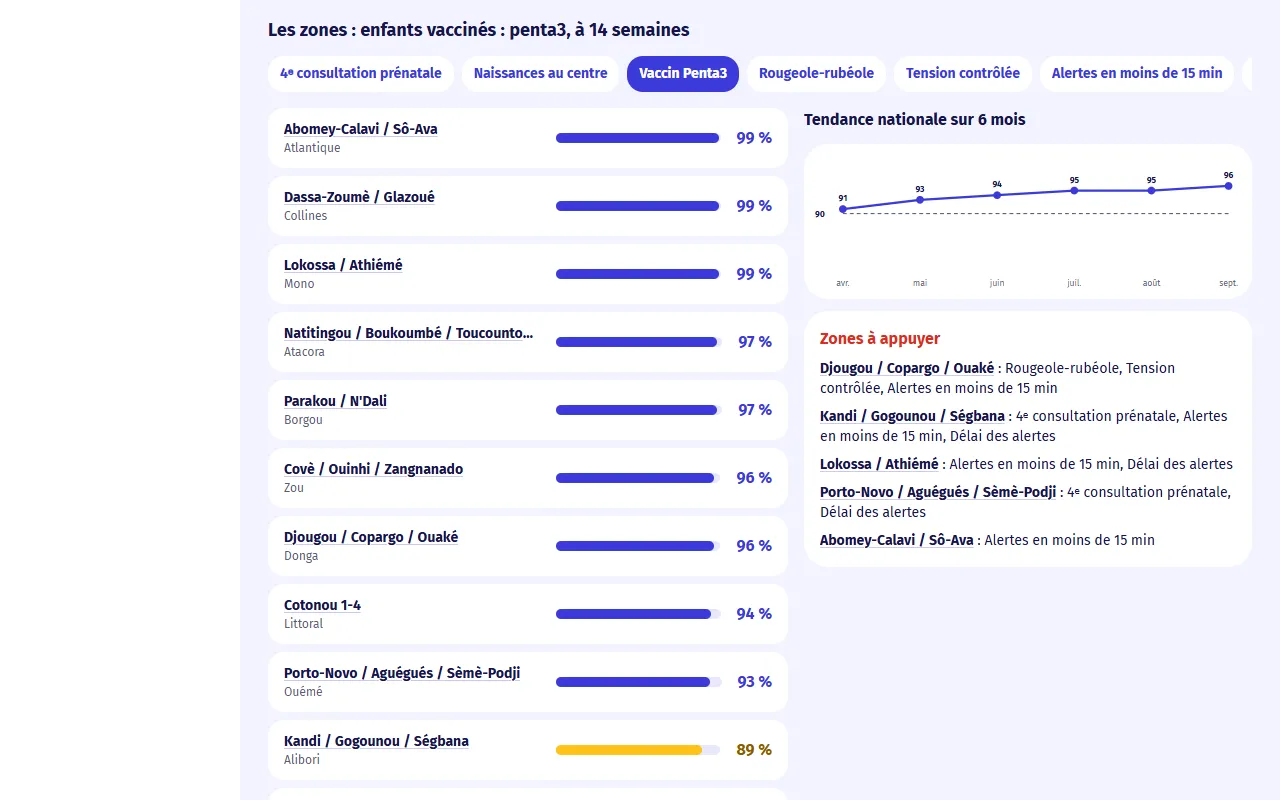
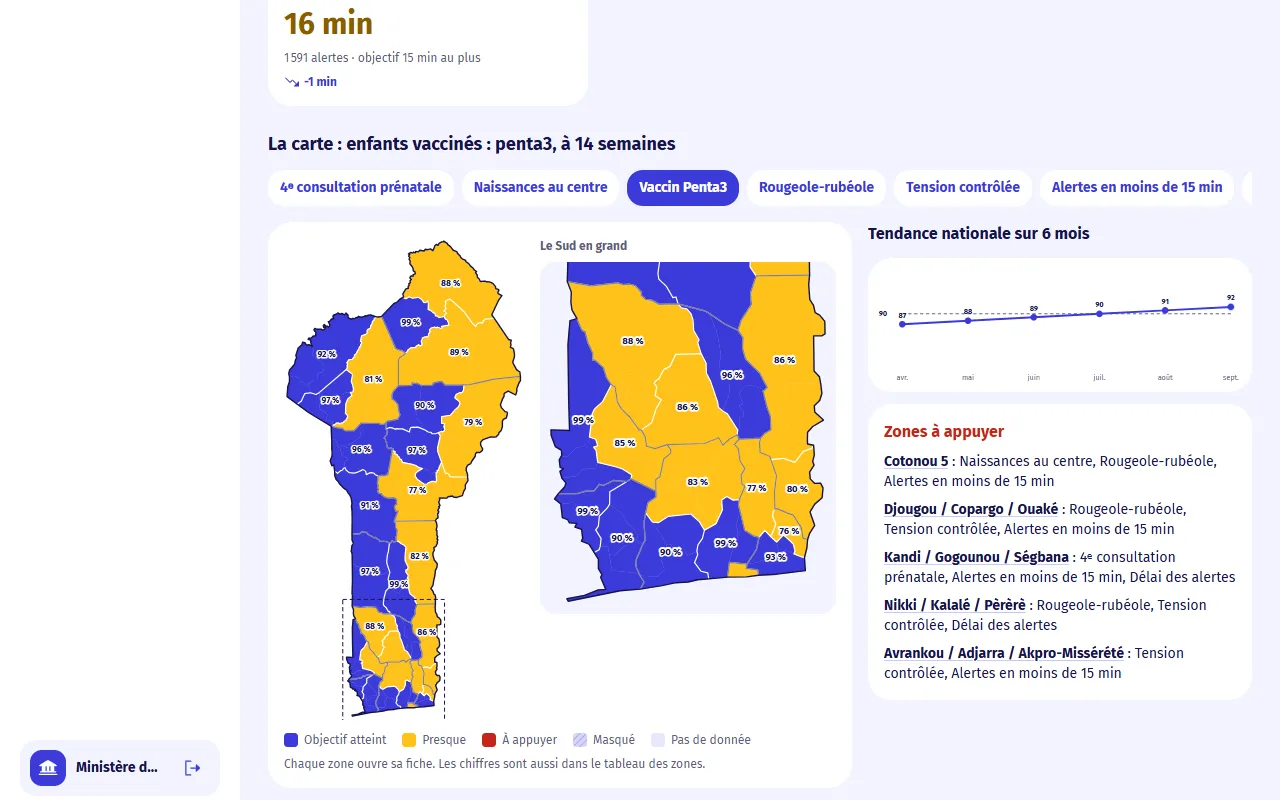
docs(présentation): cartes, voix enregistrées et gestion de contenu
README et page Découvrir : la carte du pays et des zones, la gestion des
contenus de santé avec leurs voix en fon et quatre autres langues, les
malentendants jamais appelés. Captures du pilotage refaites avec les
cartes ; source du fond de carte (domaine public).

diff --git a/src/app/decouvrir/page.tsx b/src/app/decouvrir/page.tsx
@@ -100,19 +100,21 @@ const POSTE: { icone: NomIcone; titre: string; texte: string }[] = [
 ];
 
 const PRINCIPES: { icone: NomIcone; titre: string; texte: string }[] = [
-  { icone: "ph-speaker-high", titre: "Tout s'écoute", texte: "Chaque carte, chaque conseil, chaque posologie se lit à voix haute : on n'a pas besoin de savoir lire." },
+  { icone: "ph-speaker-high", titre: "Tout s'écoute", texte: "Chaque carte, chaque conseil se lit à voix haute ; en fon, adja, yoruba, bariba ou dendi dès que le centre enregistre le message." },
   { icone: "ph-list-checks", titre: "Un pictogramme et un mot", texte: "Les signes de danger, les moments de prise et les motifs de rendez-vous sont dessinés." },
   { icone: "ph-check-circle", titre: "Une chose à la fois", texte: "L'accueil dit ce qu'il faut faire maintenant : le comprimé du soir, le vaccin de mercredi." },
   { icone: "ph-wifi-slash", titre: "Sans réseau", texte: "Les pages déjà ouvertes restent lisibles ; la tournée du relais marche hors ligne et part au retour du réseau." },
   { icone: "ph-users-three", titre: "Un téléphone pour la famille", texte: "Un même téléphone gère les carnets de toute la famille ; la déconnexion efface ce qu'il garde." },
-  { icone: "ph-shield-check", titre: "Pour les malvoyants aussi", texte: "Lecteur d'écran, gros boutons, contrastes forts, et Rachida suivie par sa fille et par le relais." },
+  { icone: "ph-shield-check", titre: "Malvoyants et malentendants", texte: "Lecteur d'écran, gros boutons, contrastes forts ; tout ce qui s'entend est aussi écrit, et une personne malentendante n'est jamais appelée." },
 ];
 
 const CAPOT: { icone: NomIcone; texte: string }[] = [
   { icone: "ph-device-mobile", texte: "Application installable (PWA), service worker, pages de moins de 300 Ko : pensée pour la 2G." },
   { icone: "ph-cloud-arrow-up", texte: "File d'envoi sans doublon : chaque saisie porte un identifiant créé sur le téléphone (UUID v7)." },
   { icone: "ph-heartbeat", texte: "Un programme de suivi tient dans un fichier : le suivi après l'accouchement a été ajouté ainsi." },
-  { icone: "ph-list-checks", texte: "Plus de 400 tests automatiques ; Next.js 16, TypeScript strict, Postgres ; déployée sur Coolify." },
+  { icone: "ph-list-checks", texte: "Plus de 470 tests automatiques ; Next.js 16, TypeScript strict, Postgres ; déployée sur Coolify." },
+  { icone: "ph-microphone", texte: "Gestion de contenu : l'administration écrit les messages de santé et enregistre leur voix dans chaque langue, au micro ou en fichier." },
+  { icone: "ph-map-trifold", texte: "Cartes des 77 communes et des 34 zones sanitaires, dessinées sur le serveur en SVG léger, sans tuiles ni bibliothèque." },
   { icone: "ph-download-simple", texte: "Export des indicateurs au format DHIS2, l'outil du système national d'information sanitaire." },
   { icone: "ph-shield-check", texte: "Droits stricts : un soignant ne voit que son centre, un relais que ses foyers, l'État que des chiffres." },
 ];
@@ -352,7 +354,7 @@ export default function PageDecouvrir() {
               {[
                 { icone: "ph-heartbeat" as NomIcone, texte: "Calculés en direct depuis les carnets : 4ᵉ consultation, naissances au centre, vaccins, tension, alertes." },
                 { icone: "ph-shield-check" as NomIcone, texte: "Un chiffre qui porte sur moins de 5 personnes est masqué, à l'écran comme dans l'export." },
-                { icone: "ph-chart-line-up" as NomIcone, texte: "Tendance sur 6 mois, classement des zones et zones à appuyer pour le ministère." },
+                { icone: "ph-chart-line-up" as NomIcone, texte: "Des cartes : chaque zone colorée selon l'objectif, sa valeur écrite dessus ; la tendance sur 6 mois et les zones à appuyer." },
                 { icone: "hi-ambulatory-clinic" as NomIcone, texte: "Centre par centre : consultations, attente en salle, délai des alertes ; relais par relais : foyers visités." },
                 { icone: "ph-map-trifold" as NomIcone, texte: "Pour le ministère, une fiche par zone sanitaire, et les alertes prises à temps zone par zone." },
                 { icone: "ph-download-simple" as NomIcone, texte: "Exports au format DHIS2 (mois, 6 mois, centres), pour rejoindre le système national d'information sanitaire." },
@@ -366,14 +368,14 @@ export default function PageDecouvrir() {
             <div className="grid gap-8 lg:grid-cols-3">
               <Navigateur
                 src="pilotage-zone"
-                alt="Pilotage de la zone sanitaire Zogbodomey-Bohicon-Zakpota : 4ᵉ consultation 61 %, naissances au centre 95 %, Penta3 86 %, avec les objectifs"
-                legende="Les agents de la zone sanitaire : les indicateurs en direct, commune par commune."
+                alt="Carte de la zone sanitaire Zogbodomey-Bohicon-Zakpota : Bohicon à 61 % pour la 4ᵉ consultation prénatale, le centre de santé et la pharmacie en points, et la tendance sur 6 mois"
+                legende="Les agents de la zone sanitaire : la carte de leurs communes, en direct, et la tendance."
                 sombre
               />
               <Navigateur
                 src="pilotage-ministere"
-                alt="Vue nationale du ministère : classement des zones sanitaires pour le vaccin Penta3, tendance nationale et zones à appuyer"
-                legende="Le ministère : toutes les zones, la tendance nationale, les zones à appuyer (données fictives)."
+                alt="Carte du Bénin pour le ministère : les 34 zones sanitaires colorées selon le vaccin Penta3, le Sud agrandi, la tendance nationale et les zones à appuyer"
+                legende="Le ministère : la carte des 34 zones sanitaires, chaque zone ouvre sa fiche (données fictives hors zone de démo)."
                 sombre
               />
               <Navigateur

diff --git a/README.md b/README.md
@@ -38,7 +38,7 @@ Ouvrez https://moncarnet.kheios.com/demo : un clic entre dans un compte.
 ## Rappels en cascade (canaux simulés)
 
 - **À J-2**, chaque place réservée reçoit un rappel sur le premier canal de la personne : WhatsApp si elle l'a et y consent, sinon SMS, un appel vocal si elle préfère la voix, le relais si elle n'a pas de téléphone.
-- **Sans réponse après 2 heures**, le rappel passe au canal suivant : WhatsApp → SMS → appel vocal → relais. Au bout de la cascade, la personne apparaît dans la tournée du relais : « Rappels sans réponse : prévenir de vive voix ».
+- **Sans réponse après 2 heures**, le rappel passe au canal suivant : WhatsApp → SMS → appel vocal → relais. Une personne malentendante n'est jamais appelée : un message écrit, puis le relais. Au bout de la cascade, la personne apparaît dans la tournée du relais : « Rappels sans réponse : prévenir de vive voix ».
 - **« 1 : Je viendrai »** confirme ; **« 2 : Je ne peux pas »** libère la place, et l'application propose un autre jour. Le rappel s'affiche aussi sur l'accueil, avec les mêmes réponses.
 - **Contenu neutre** : date, lieu, « vaccin » ou « rendez-vous », jamais la maladie, car un téléphone se partage.
 - **Le faux téléphone** (`/demo/telephone`) montre ce que reçoivent Codjo, Afiavi (téléphone basique) et Aïcha : WhatsApp, SMS, appel vocal lu à voix haute. Rien n'est vraiment envoyé ; un fournisseur réel (WhatsApp Cloud API, SMS, voix) se branche à la place de la simulation.
@@ -78,23 +78,26 @@ Ouvrez https://moncarnet.kheios.com/demo : un clic entre dans un compte.
 
 ## Pilotage (État)
 
-- **Agents de l'État, zone sanitaire Zogbodomey-Bohicon-Zakpota** : les indicateurs de la zone calculés en direct depuis les carnets, commune par commune. On y lit la 4ᵉ consultation prénatale, les naissances au centre, les vaccins Penta3 et rougeole-rubéole, la tension contrôlée, les alertes prises en charge en moins de 15 minutes et leur délai moyen, les visites des relais et les rendez-vous manqués. S'y ajoutent la tendance sur 6 mois et l'écart avec le mois dernier.
-- **Ministère de la Santé** : la vue nationale. Elle réunit la zone de la démo (en direct) et dix autres zones du pays (**données fictives**, signalées comme telles), le classement des zones par indicateur, la tendance nationale et les zones à appuyer.
+- **Agents de l'État, zone sanitaire Zogbodomey-Bohicon-Zakpota** : les indicateurs de la zone calculés en direct depuis les carnets, commune par commune. On y lit la 4ᵉ consultation prénatale, les naissances au centre, les vaccins Penta3 et rougeole-rubéole, la tension contrôlée, les alertes prises en charge en moins de 15 minutes et leur délai moyen, les visites des relais et les rendez-vous manqués. S'y ajoutent la carte de la zone (chaque commune avec sa valeur, le centre de santé et la pharmacie en points), la tendance sur 6 mois et l'écart avec le mois dernier.
+- **Ministère de la Santé** : la vue nationale. Elle réunit la zone de la démo (en direct) et les 33 autres zones sanitaires du pays (**données fictives**, signalées comme telles) sur une **carte du Bénin** : chaque zone colorée selon l'objectif (atteint, presque, à appuyer, masqué), sa valeur écrite dessus, le Sud agrandi à côté, et chaque zone ouvre sa fiche. S'y ajoutent la tendance nationale et les zones à appuyer.
 - **Indicateurs** : un indicateur à la fois, avec sa définition, son objectif, sa tendance, puis le détail commune par commune (zone) ou zone par zone (ministère).
 - **Centres et relais** (zone) : pour chaque centre, les consultations, l'attente moyenne en salle, les alertes et leur délai, les places des 7 jours à venir ; pour chaque relais, les foyers suivis, les visites et la part des foyers visités.
 - **Alertes** : en direct et semaine par semaine pour la zone, centre par centre ; zone par zone pour le ministère.
 - **Zones** (ministère) : toutes les zones côte à côte, et la fiche de chacune (en direct pour la zone de la démo).
 - **Exports CSV au format DHIS2** (unité, période, élément, numérateur, dénominateur, valeur) : indicateurs du mois, historique sur 6 mois, activité des centres et des relais.
+- **Cartes** : les 77 communes et les 34 zones sanitaires, d'après geoBoundaries (domaine public), simplifiées en gardant les frontières communes et dessinées sur le serveur en SVG (55 Ko, sans tuiles ni bibliothèque). La couleur n'est jamais seule : la valeur est écrite, la légende est en mots, et les tableaux donnent les mêmes chiffres. `pnpm carte` refait le fond de carte.
 - **Aucun nom** ne sort du pilotage. Un chiffre qui porte sur moins de 5 personnes est masqué, à l'écran comme dans l'export : la petite commune de Zogbodomey le montre.
 
 ## Administration
 
-- L'état de la démo (comptes, carnets, foyers, alertes en cours, salle d'attente) et **« Réinitialiser la démo »** en un clic, pour rejouer les parcours (compte `admin`).
+- **Gestion des contenus de santé** (`/admin/contenus`) : les conseils de grossesse par trimestre, les messages des prises de médicaments, la vaccination, le signe de danger, les rendez-vous. Le texte français se modifie ; la **version parlée** s'enregistre au micro ou s'envoie en fichier, en fon, adja, yoruba, bariba ou dendi. Chez les familles, « Écouter » joue l'enregistrement dans la langue de la personne qui tient le téléphone, sinon la voix du téléphone lit le français.
+- L'état de la démo (comptes, carnets, foyers, alertes en cours, salle d'attente) et **« Réinitialiser la démo »** en un clic, pour rejouer les parcours (compte `admin`). La remise à zéro garde les contenus et leurs voix enregistrées.
 
 ## Accessibilité
 
 - Audit automatique **axe-core (WCAG 2.1 A et AA)** en production sur 43 écrans (présentation, démo, faux téléphone, connexion, patient, relais, soignant avec agenda, suivis, relais et alertes, pharmacie avec historique et ruptures, pilotage de la zone et du ministère, administration) : **aucune violation**.
-- Tout s'écoute ; pictogramme et mot ; gros boutons ; lecteur d'écran ; contrastes vérifiés ; tout se fait au clavier.
+- Tout s'écoute (dans sa langue quand le message est enregistré) ; pictogramme et mot ; gros boutons ; lecteur d'écran ; contrastes vérifiés ; tout se fait au clavier.
+- Malentendants : tout ce qui s'entend est aussi écrit et dessiné, et les rappels ne les appellent jamais.
 
 ## Démarrer en local
 

diff --git a/docs/superpowers/plans/2026-09-26-plan-12-cartes-contenus.md b/docs/superpowers/plans/2026-09-26-plan-12-cartes-contenus.md
@@ -65,3 +65,30 @@
 
 ### Tâche 6 : finitions
 README, page de présentation, audit axe, suite complète, envoi, déploiement, démo réinitialisée, vérification en production.
+
+## Bilan
+
+Tâches 1 à 6 livrées.
+
+**Cartes**
+- Carte nationale des 34 zones, avec le Sud agrandi.
+- Carte de chaque zone : communes, établissements.
+- Présentes sur les tableaux de bord, la fiche de zone, les indicateurs et les centres.
+
+**Gestion de contenu**
+- 10 contenus : texte, et voix par langue enregistrée au micro ou envoyée en fichier.
+- Joués chez les familles dans la langue de la personne qui tient le téléphone.
+- Conservés lors d'une remise à zéro de la démo.
+
+**Inclusion**
+- Plus d'appel vocal pour une personne malentendante.
+- La promesse du fon est maintenant exacte.
+
+**Décisions**
+- Un fond de carte calculé à l'avance plutôt qu'une bibliothèque de cartes, pour rester léger et lisible sans réseau.
+- Cotonou (4 zones sur une seule commune) est affichée comme un seul ensemble qui renvoie au tableau des zones.
+- Le texte affiché reste en français : la voix du téléphone ne sait pas lire le fon. Seul l'enregistrement change de langue.
+
+**Mineurs laissés de côté**
+- Aucune voix en fon n'est préenregistrée : elles se font dans l'administration.
+- La vidéo en langue des signes reste un champ prévu, sans écran.

diff --git a/data/geo/SOURCE.md b/data/geo/SOURCE.md
@@ -1,0 +1,6 @@
+# Fond de carte
+
+`communes-benin.geojson` : les 77 communes du Bénin, geoBoundaries `gbOpen/BEN/ADM2`, **domaine public**
+(source : Map Maker Ltd., Stanford Earthworks, catalogue `stanford-rq343zx0554`).
+
+`pnpm carte` en tire `src/domain/carte-benin.ts` : simplification qui garde les frontières partagées, projection, tracés SVG.
